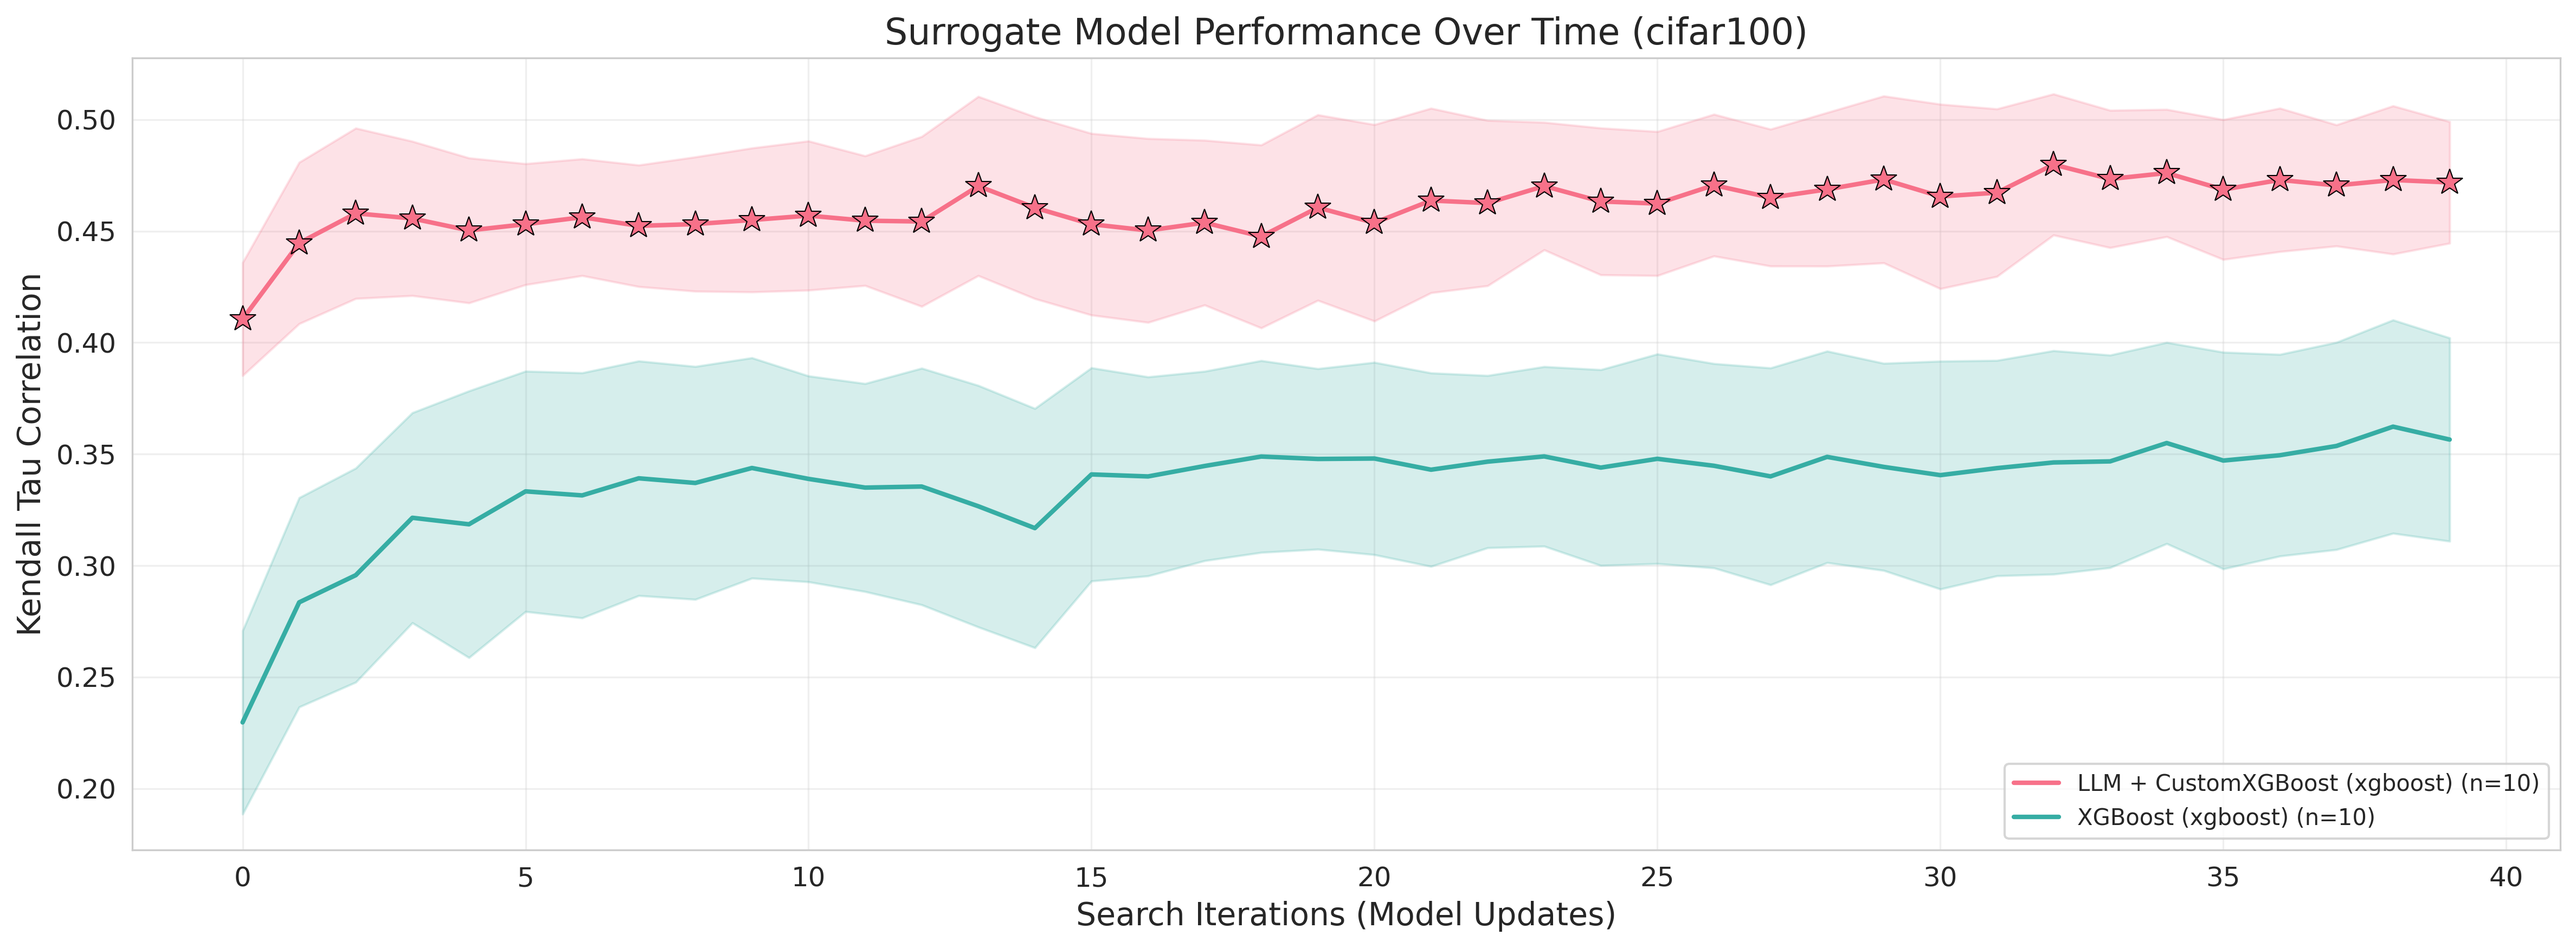
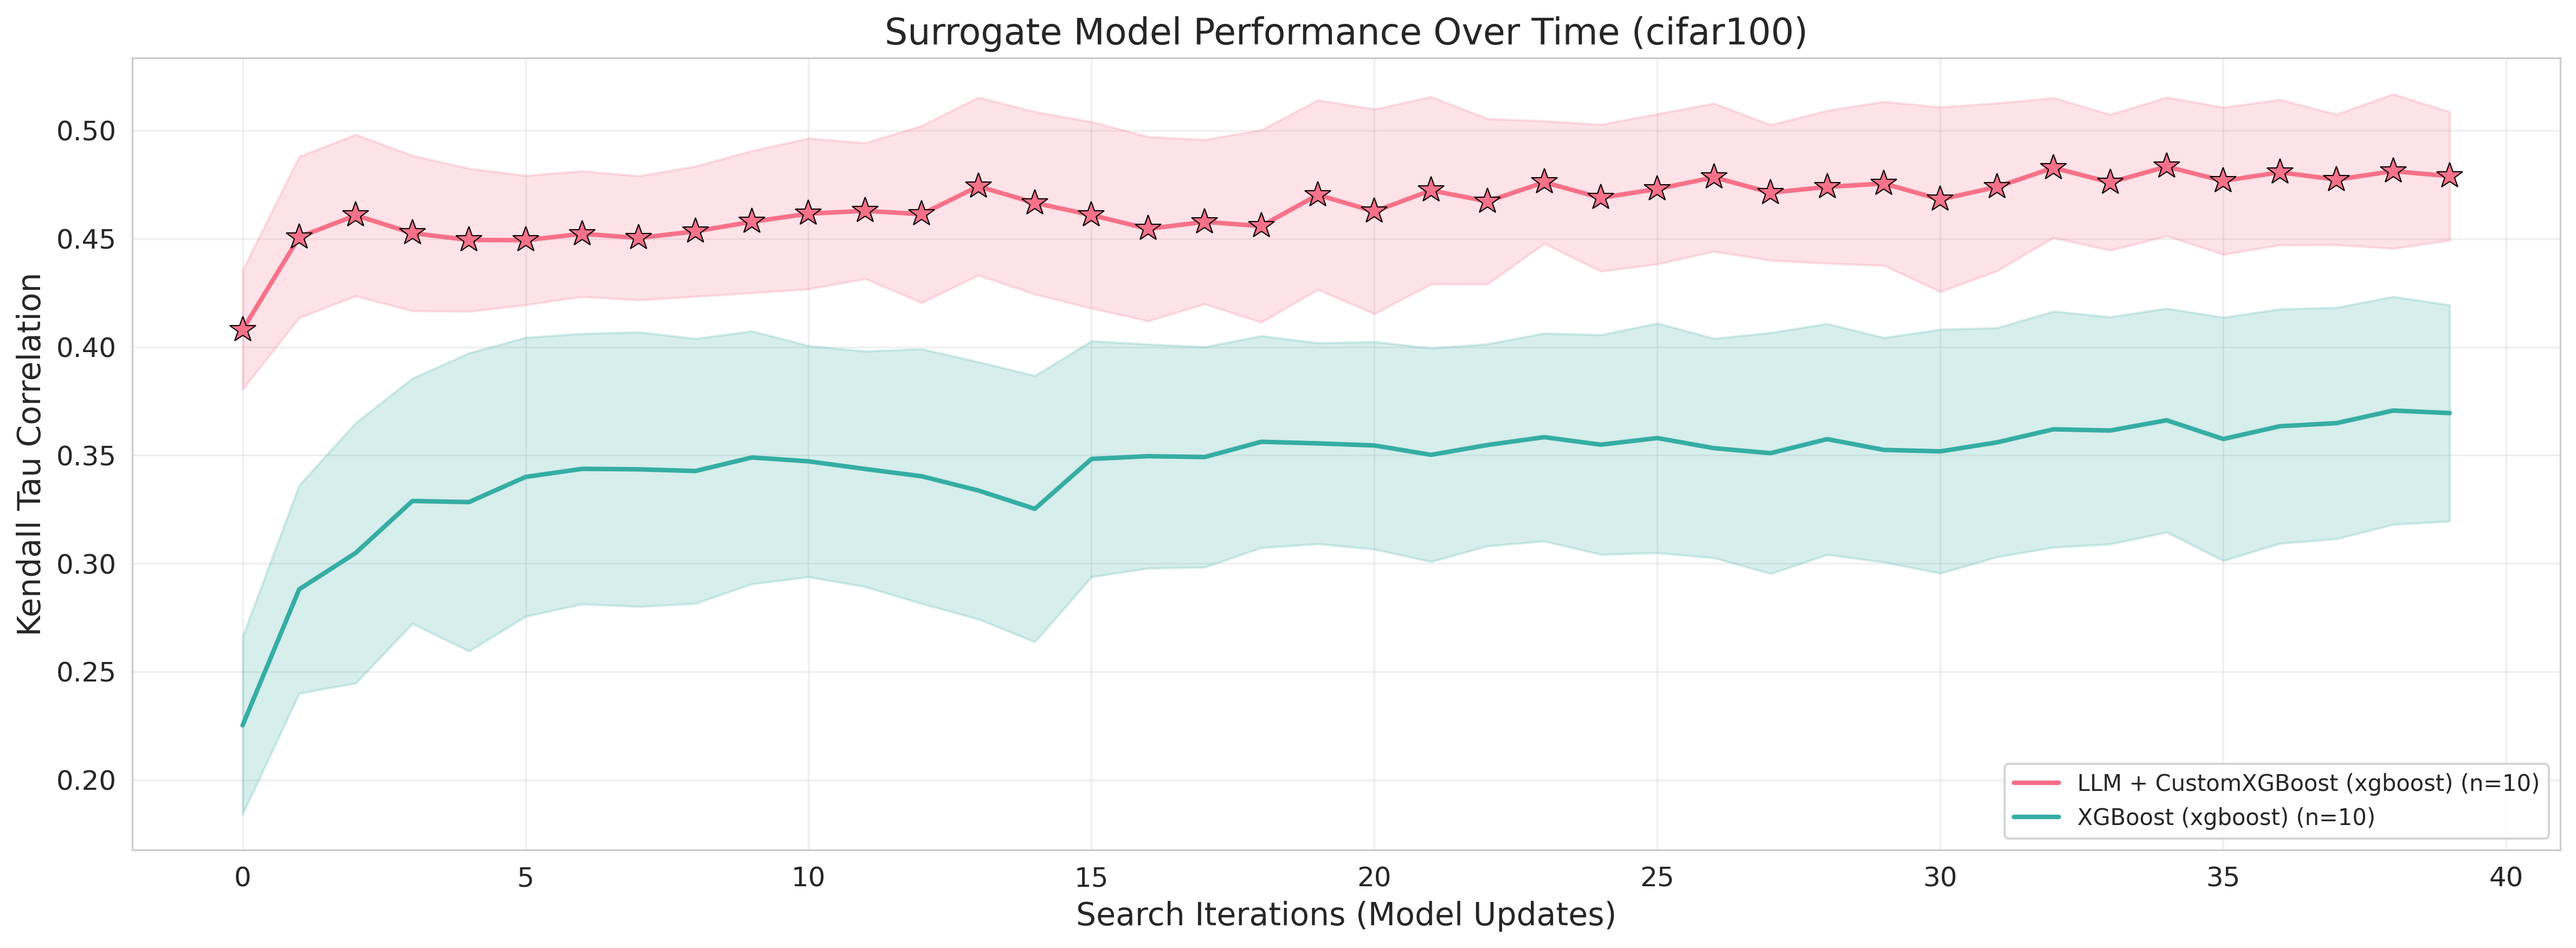
fix: prohibit search from entering test set

diff --git a/naslib/optimizers/discrete/bananas/optimizer.py b/naslib/optimizers/discrete/bananas/optimizer.py
@@ -59,6 +59,7 @@ class Bananas(MetaOptimizer):
         self.test_size = 200
         self.test_data = []
         self.test_accuracies = []
+        self.test_hashes = set()  # Store hashes of test architectures to avoid sampling them
         self.surrogate_test_metrics = [] # store KT over time
 
         self.zc = config.search.zc if hasattr(config.search, 'zc') else None
@@ -98,6 +99,7 @@ class Bananas(MetaOptimizer):
                 with open(cache_filename, 'rb') as f:
                     arch_op_indices, self.test_accuracies = pickle.load(f)
                 self.test_data = []
+                self.test_hashes = set()
                 for op_indices in arch_op_indices:
                     arch = self.search_space.clone()
                     # For hollow architectures, just set op_indices directly
@@ -106,6 +108,7 @@ class Bananas(MetaOptimizer):
                     else:
                         convert_op_indices_to_naslib(op_indices, arch)
                     self.test_data.append(arch)
+                    self.test_hashes.add(arch.get_hash())
             except Exception as e:
                 print(f"Failed to load cache ({e}), regenerating...")
                 self.test_data = [] # Trigger regeneration below
@@ -117,6 +120,7 @@ class Bananas(MetaOptimizer):
         if not self.test_data:
             print(f"Generating new fixed test set ({self.test_size} samples)...")
             self.test_accuracies = []
+            self.test_hashes = set()
             
             for _ in range(self.test_size):
                 arch = self.search_space.clone()
@@ -131,6 +135,7 @@ class Bananas(MetaOptimizer):
                 print(f"Generated test architecture with {self.performance_metric}: {acc:.4f}") 
                 self.test_data.append(arch)
                 self.test_accuracies.append(acc)
+                self.test_hashes.add(arch.get_hash())
 
             # Save to cache for next time
             print(f"Saving fixed test set to {cache_filename}")
@@ -182,15 +187,29 @@ class Bananas(MetaOptimizer):
         self._update_history(model)
 
     def _sample_new_model(self):
-        model = torch.nn.Module()
-        model.arch = self.search_space.clone()
-        model.arch.sample_random_architecture(
-            dataset_api=self.dataset_api, load_labeled=self.load_labeled)
-        model.arch_hash = model.arch.get_hash()
+        max_retries = 500  # Prevent infinite loops
+        retries = 0
         
+        while retries < max_retries:
+            model = torch.nn.Module()
+            model.arch = self.search_space.clone()
+            model.arch.sample_random_architecture(
+                dataset_api=self.dataset_api, load_labeled=self.load_labeled)
+            model.arch_hash = model.arch.get_hash()
+            
+            # Check if this architecture is in the test set
+            if model.arch_hash not in self.test_hashes:
+                if self.search_space.instantiate_model == True:
+                    model.arch.parse()
+                return model
+            
+            retries += 1
+        
+        # If we've exhausted retries, log a warning and return anyway
+        # This should be extremely rare in large search spaces
+        logger.warning(f"Could not sample architecture outside test set after {max_retries} attempts. Returning anyway.")
         if self.search_space.instantiate_model == True:
             model.arch.parse()
-
         return model
 
     def _get_train(self):
